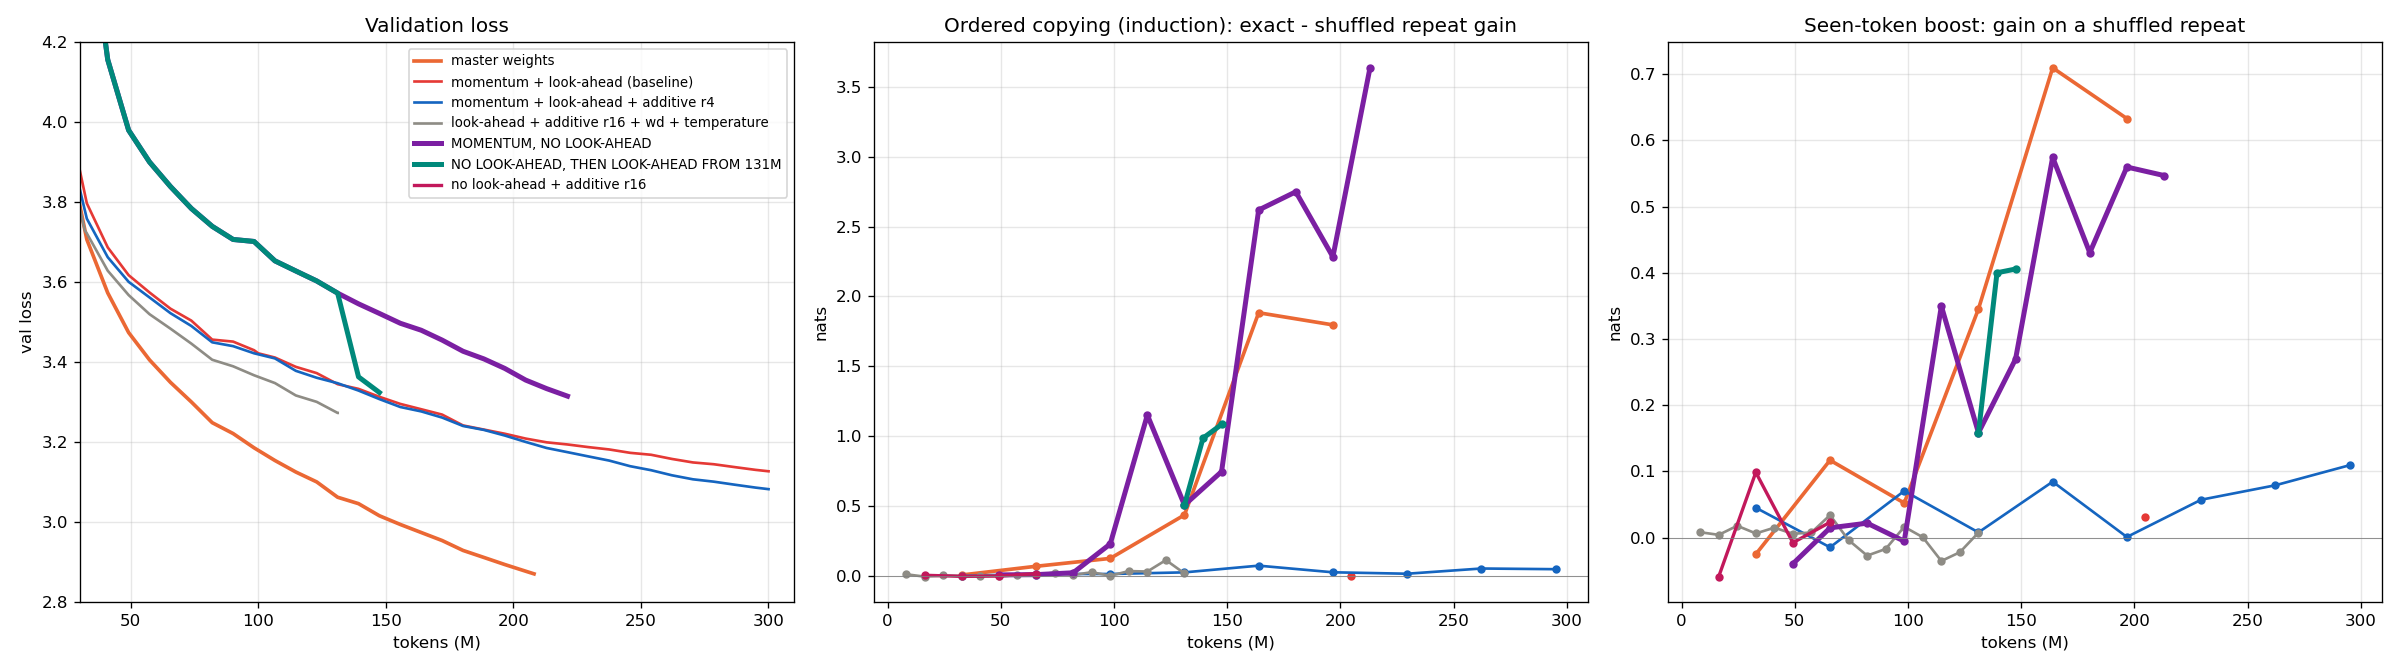
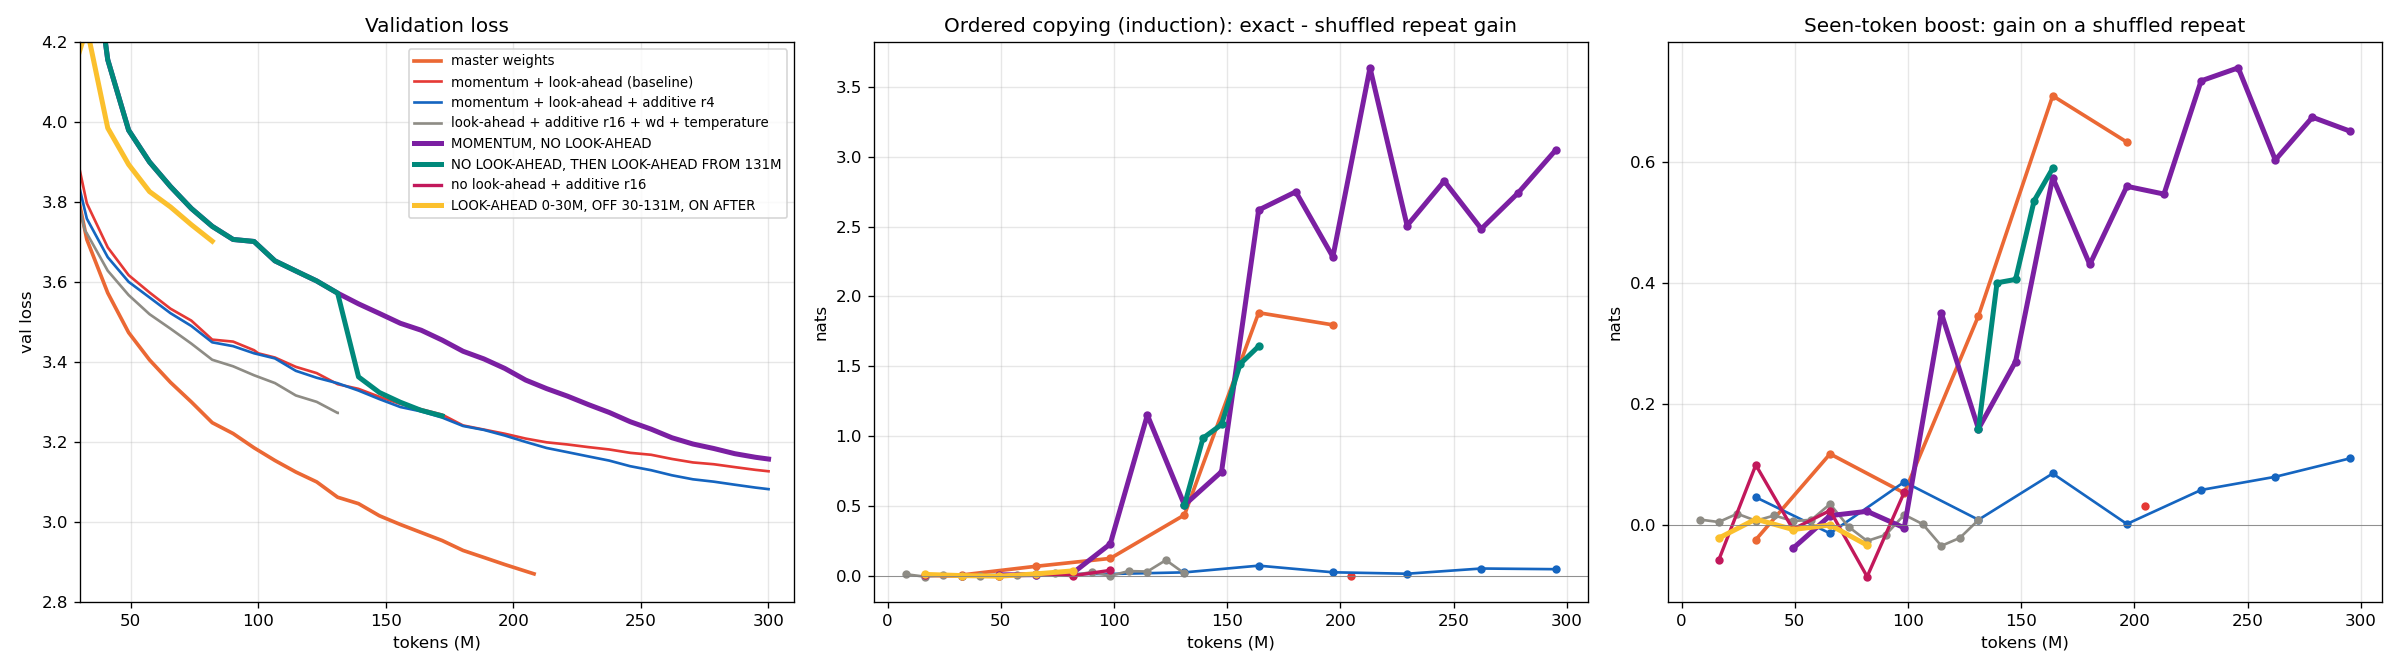
live plot: only current runs

diff --git a/scripts/plots/plot_live.py b/scripts/plots/plot_live.py
@@ -10,20 +10,15 @@ import matplotlib.pyplot as plt
 
 SURFACE, INK, INK2, GRID = "#fcfcfb", "#0b0b0b", "#52514e", "#e6e5e1"
 RUNS = [  # dir, label, color, width, highlight
-    ("fp32_baseline", "full precision fp32 + AdamW (not ternary)", "#00acc1", 2.4, False),
-    ("p2_baseline",   "master weights (ceiling)",           "#eb6834", 2.4, False),
-    ("lm_lowrank256_xb2_100M", "rank-256 momentum + cross-batch look-ahead x2", "#e53935", 2.4, False),
-    ("nola_lab", "MOMENTUM, NO LOOK-AHEAD (lab 3090, to 300M): forms induction at ~98M", "#7b1fa2", 3.2, True),
-    ("nola_add16", "NO LOOK-AHEAD + ADDITIVE r16 (4090, queued)", "#c2185b", 3.2, True),
-    ("nola_then_la", "NO LOOK-AHEAD, THEN LOOK-AHEAD FROM 131M (laptop)", "#00897b", 3.2, True),
-    ("la_sched", "LOOK-AHEAD 0-30M, OFF 30-131M, ON AFTER (4090)", "#fbc02d", 3.4, True),
-    ("la_sched98", "LOOK-AHEAD 0-30M, OFF 30-98M, ON AFTER (lab 3090)", "#6d4c41", 3.4, True),
-    ("magadd_full", "momentum + look-ahead + additive magnitude r4", "#1565c0", 2.4, False),
-    ("magadd16_qk", "momentum + look-ahead + additive r16 + per-head temperature (stopped at 181M)", "#2e7d32", 2.4, False),
-    ("magadd16_wd_qk", "+ ADAPTER WEIGHT DECAY 0.1 (additive r16 + temperature, running to 131M)", "#8e24aa", 3.4, True),
-    ("overnight_full", "cross-batch look-ahead x2, stopped at 131M", "#111111", 2.4, False),
-    ("armA_cosine",   "flips, cosine rate (reference)",     "#1baf7a", 1.8, False),
-    ("armA_cos_600M", "flips, cosine rate, 600M schedule",  "#8e8c85", 1.4, False),
+    ("fp32_baseline", "full precision fp32 + AdamW (not ternary)", "#00acc1", 2.2, False),
+    ("p2_baseline",   "master weights", "#eb6834", 2.2, False),
+    ("lm_lowrank256_xb2_100M", "momentum + look-ahead (baseline)", "#e53935", 2.0, False),
+    ("magadd_full", "momentum + look-ahead + additive r4", "#1565c0", 2.0, False),
+    ("nola_lab", "MOMENTUM, NO LOOK-AHEAD (induction from ~98M)", "#7b1fa2", 3.0, True),
+    ("nola_then_la", "NO LOOK-AHEAD, THEN LOOK-AHEAD FROM 131M", "#00897b", 3.0, True),
+    ("la_sched", "LOOK-AHEAD 0-30M, OFF 30-131M, ON AFTER", "#fbc02d", 3.0, True),
+    ("la_sched98", "LOOK-AHEAD 0-30M, OFF 30-98M, ON AFTER", "#6d4c41", 3.0, True),
+    ("nola_add16", "no look-ahead + additive r16 (stopped: adapter takes over q/k)", "#c2185b", 1.6, False),
 ]
 
 
